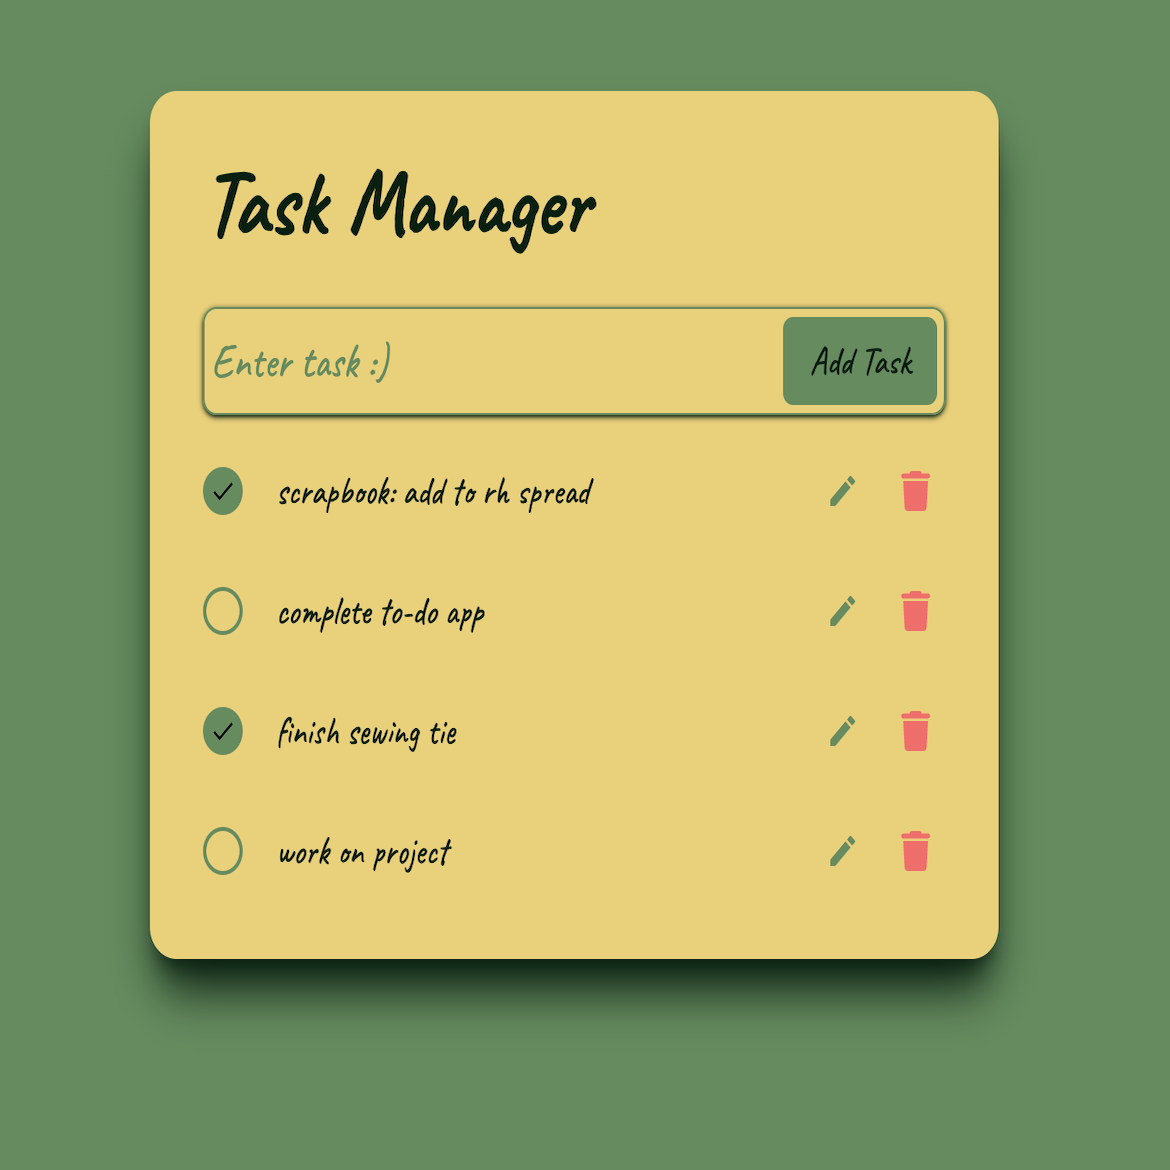
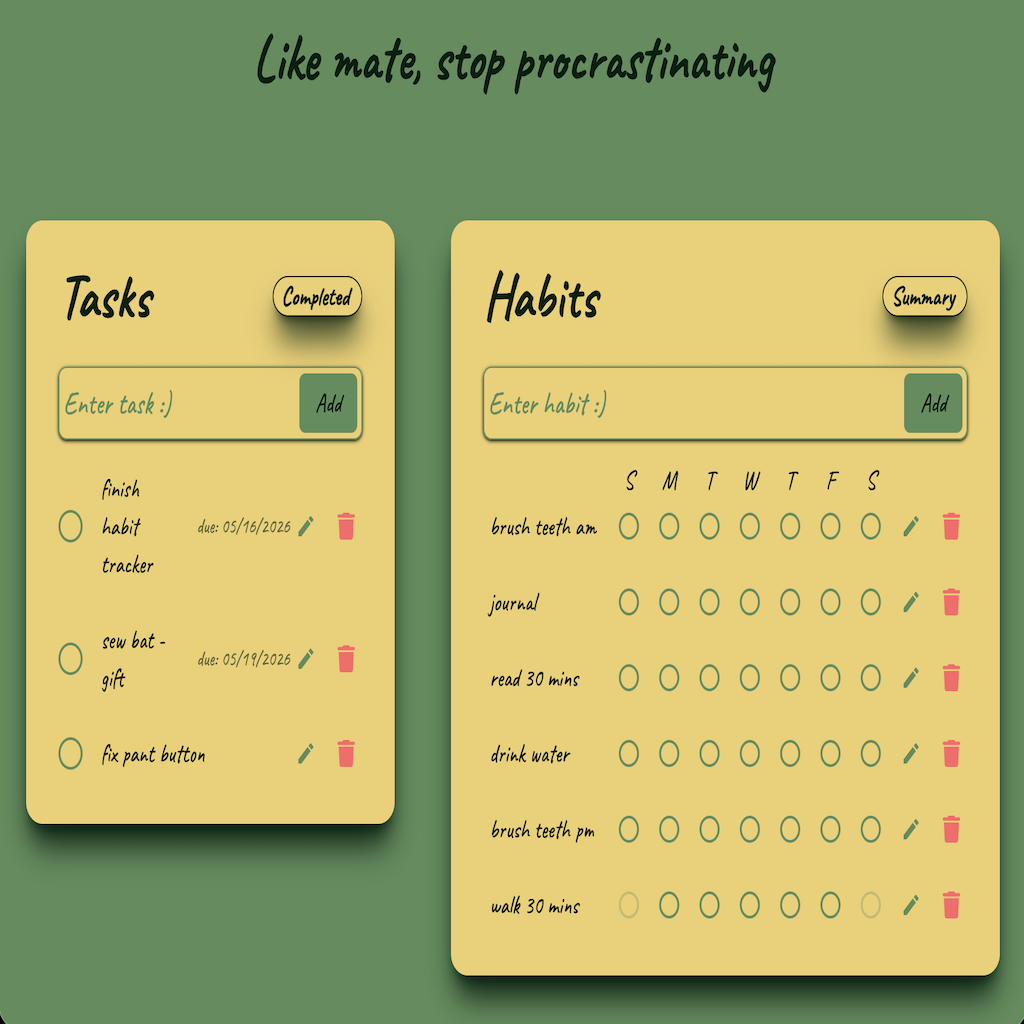
add new imgs for todo app project

diff --git a/projects.html b/projects.html
@@ -38,7 +38,7 @@
                 <button id="todo" class="proj-button" data-modal="todo-modal">To-do App<img class="img" src="images/todo-main.png"></button>
                 <div id="todo-modal" class="modal">
                     <div class="modal-content">
-                        <div class="left-side" data-images='["images/todo-main.png","images/todo-design1.png", "images/task-habits.png", "images/completed-tasks.png"]'>
+                        <div class="left-side" data-images='["images/todo-main.png", "images/tasks.png", "images/todo-design1.png", "images/task-habits.png", "images/completed-tasks.png", "images/habit-edit.png"]'>
                             <img class="current-img" src="images/todo-main.png">
                             <div class="slide">
                                 <button class="prev">&lt;</button>
@@ -56,19 +56,20 @@
                             <hr>
                             <ul>
                                 <li>Initially based on a Youtube tutorial</li>
-                                <li>Started to added my own features - changing the design</li>
+                                <li>Started to added my own features and changing the design</li>
                                 <li>Currently decided on having a tasks/to-do list and habit tracker</li>
                                 <li>Moved completed tasks to separate space with a date completed</li>
-                                <li>Added optional due date feature when creating tasks</li>
+                                <li>Added optional due date feature, avaiable in edit mode</li>
+                                <li>Weekly habit tracker, can edit the name and days of the week</li>
                             </ul>
                             <hr>
                             <ul>
                                 <li>Planned Next Steps:</li>
                                 <ul>
-                                    <li>Develop habit tracker: add habits, days of the week, week will auto reset and data is recorded in a weekly?, monthly? format</li>
-                                    <li>Develop task-date feature, order tasks from marked priority?, due soonest to lastest, then undated</li>
+                                    <li>Develop habit summary/analysis, with streak data, display monthly?</li>
+                                    <li>Develop filter/ordering tasks from priority?, due soonest to lastest, then undated</li>
                                     <li>Order completed tasks? by date completed, alphabetically</li>
-                                    <li>Search/filter tasks within active and completed tasks</li>
+                                    <li>Make the habit order changable, click and drag?</li>
                                     <li>Security & authentication</li>
                                 </ul>
                             </ul>
